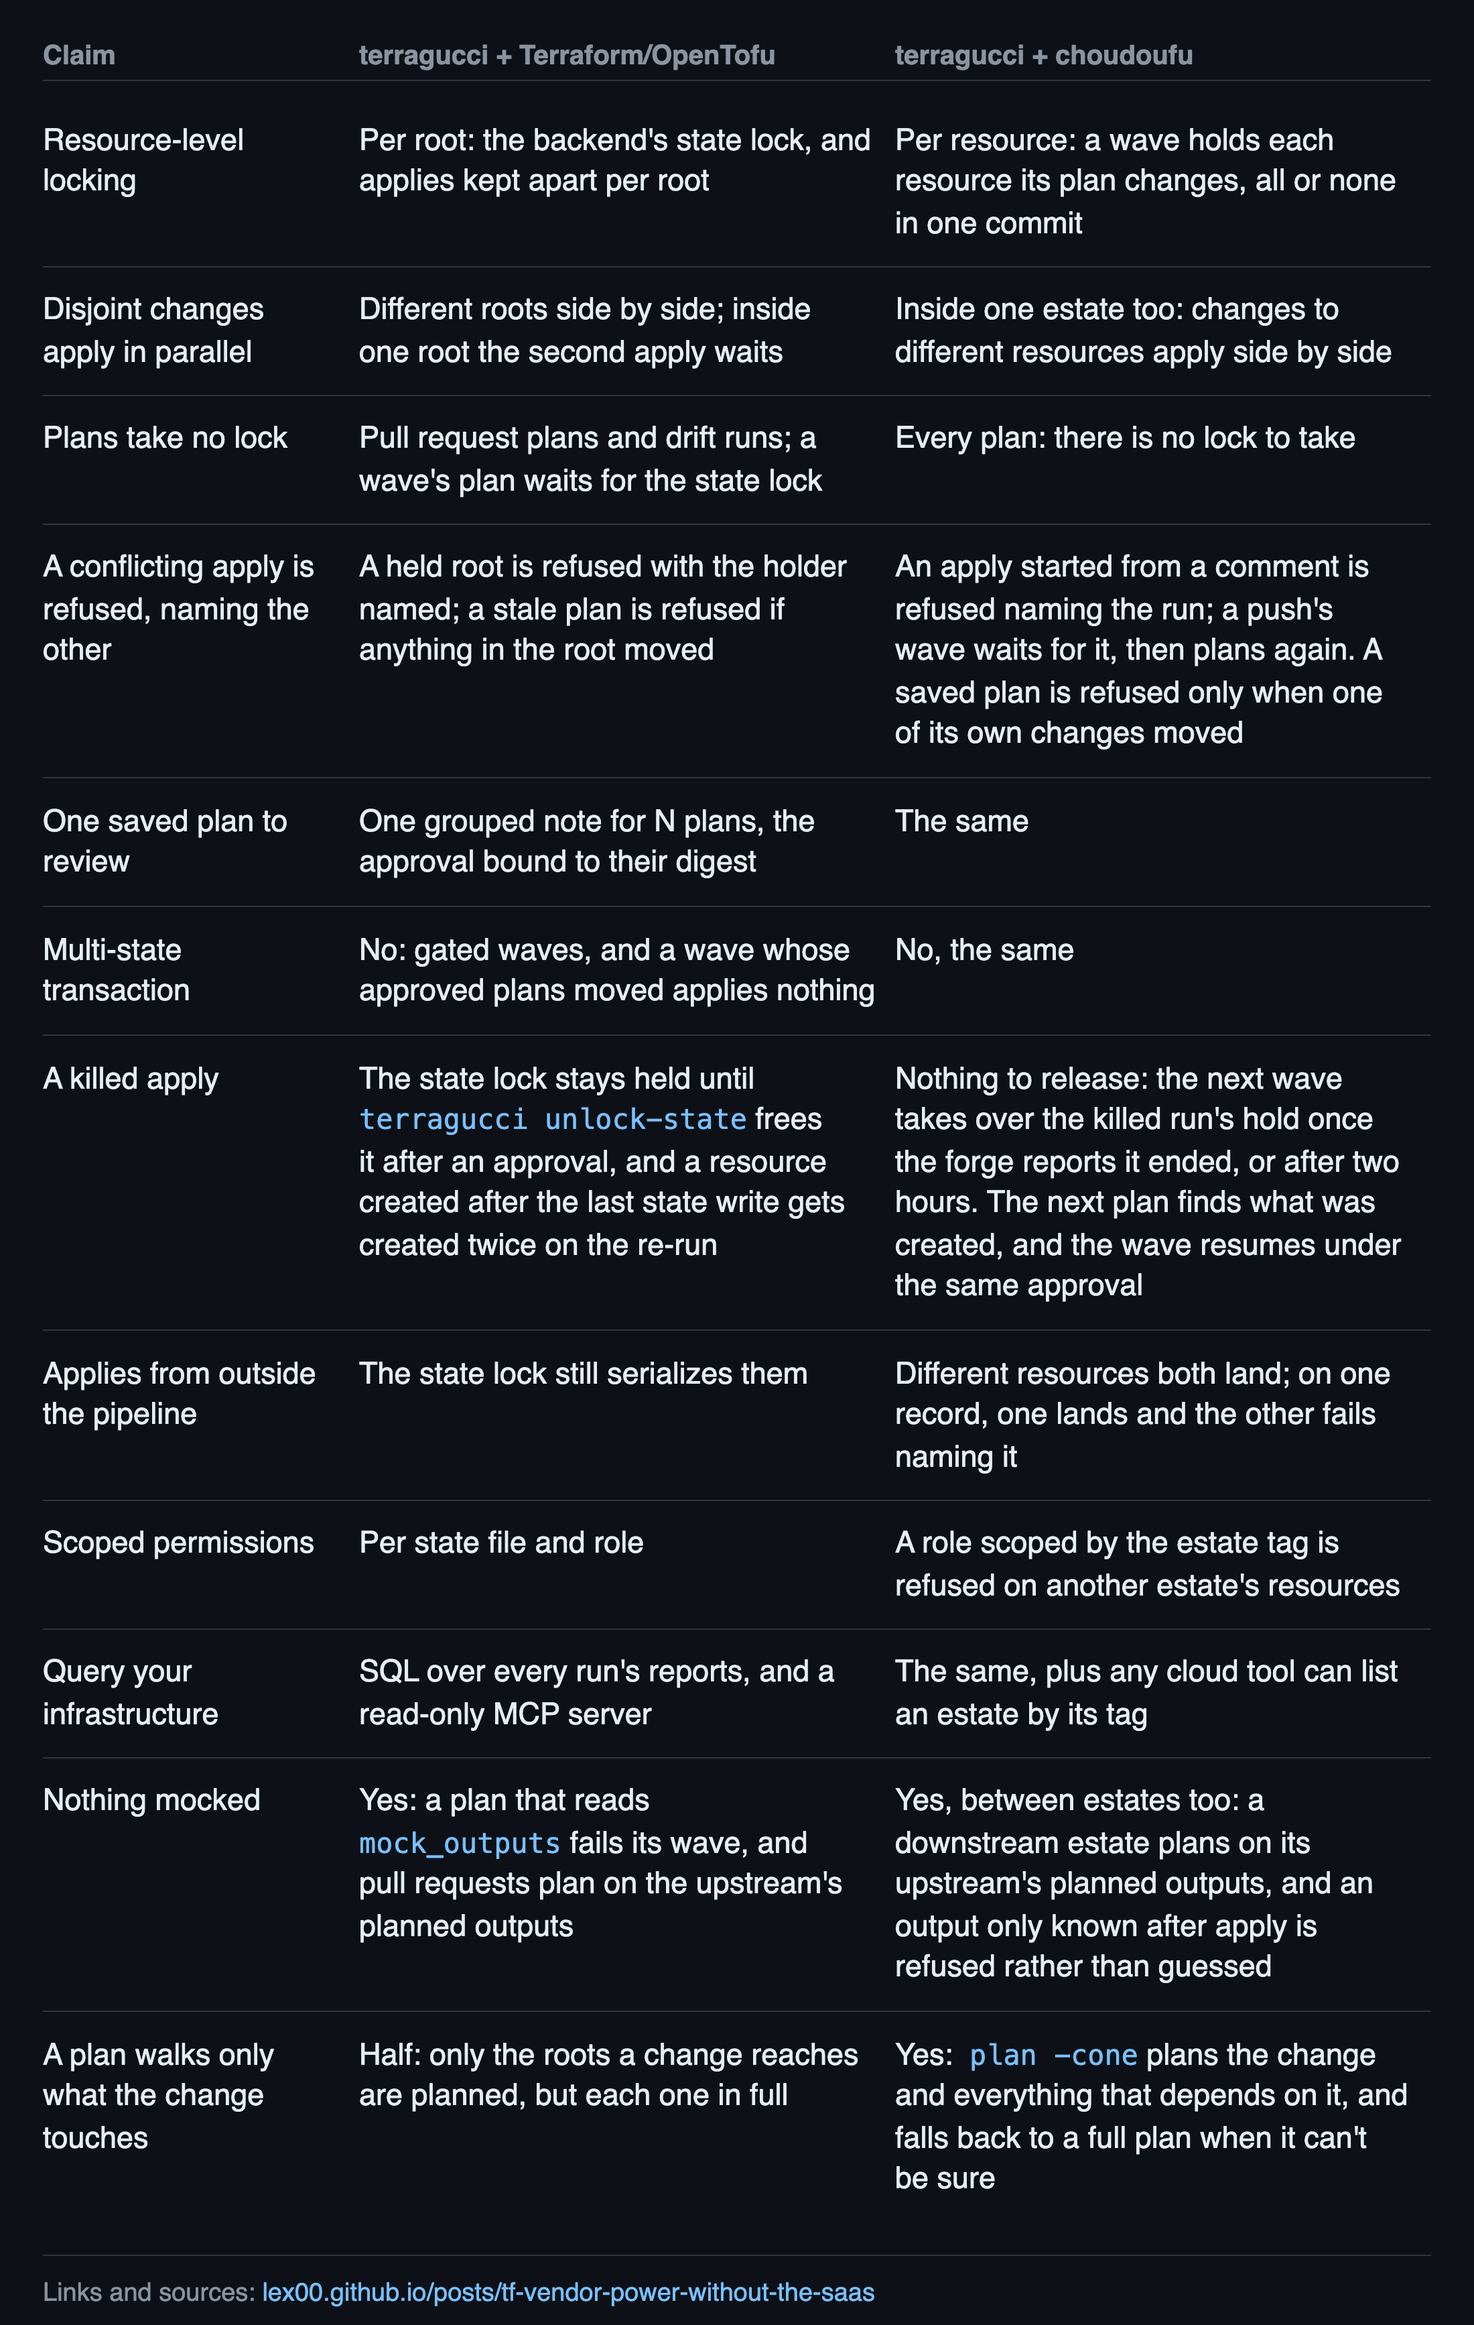
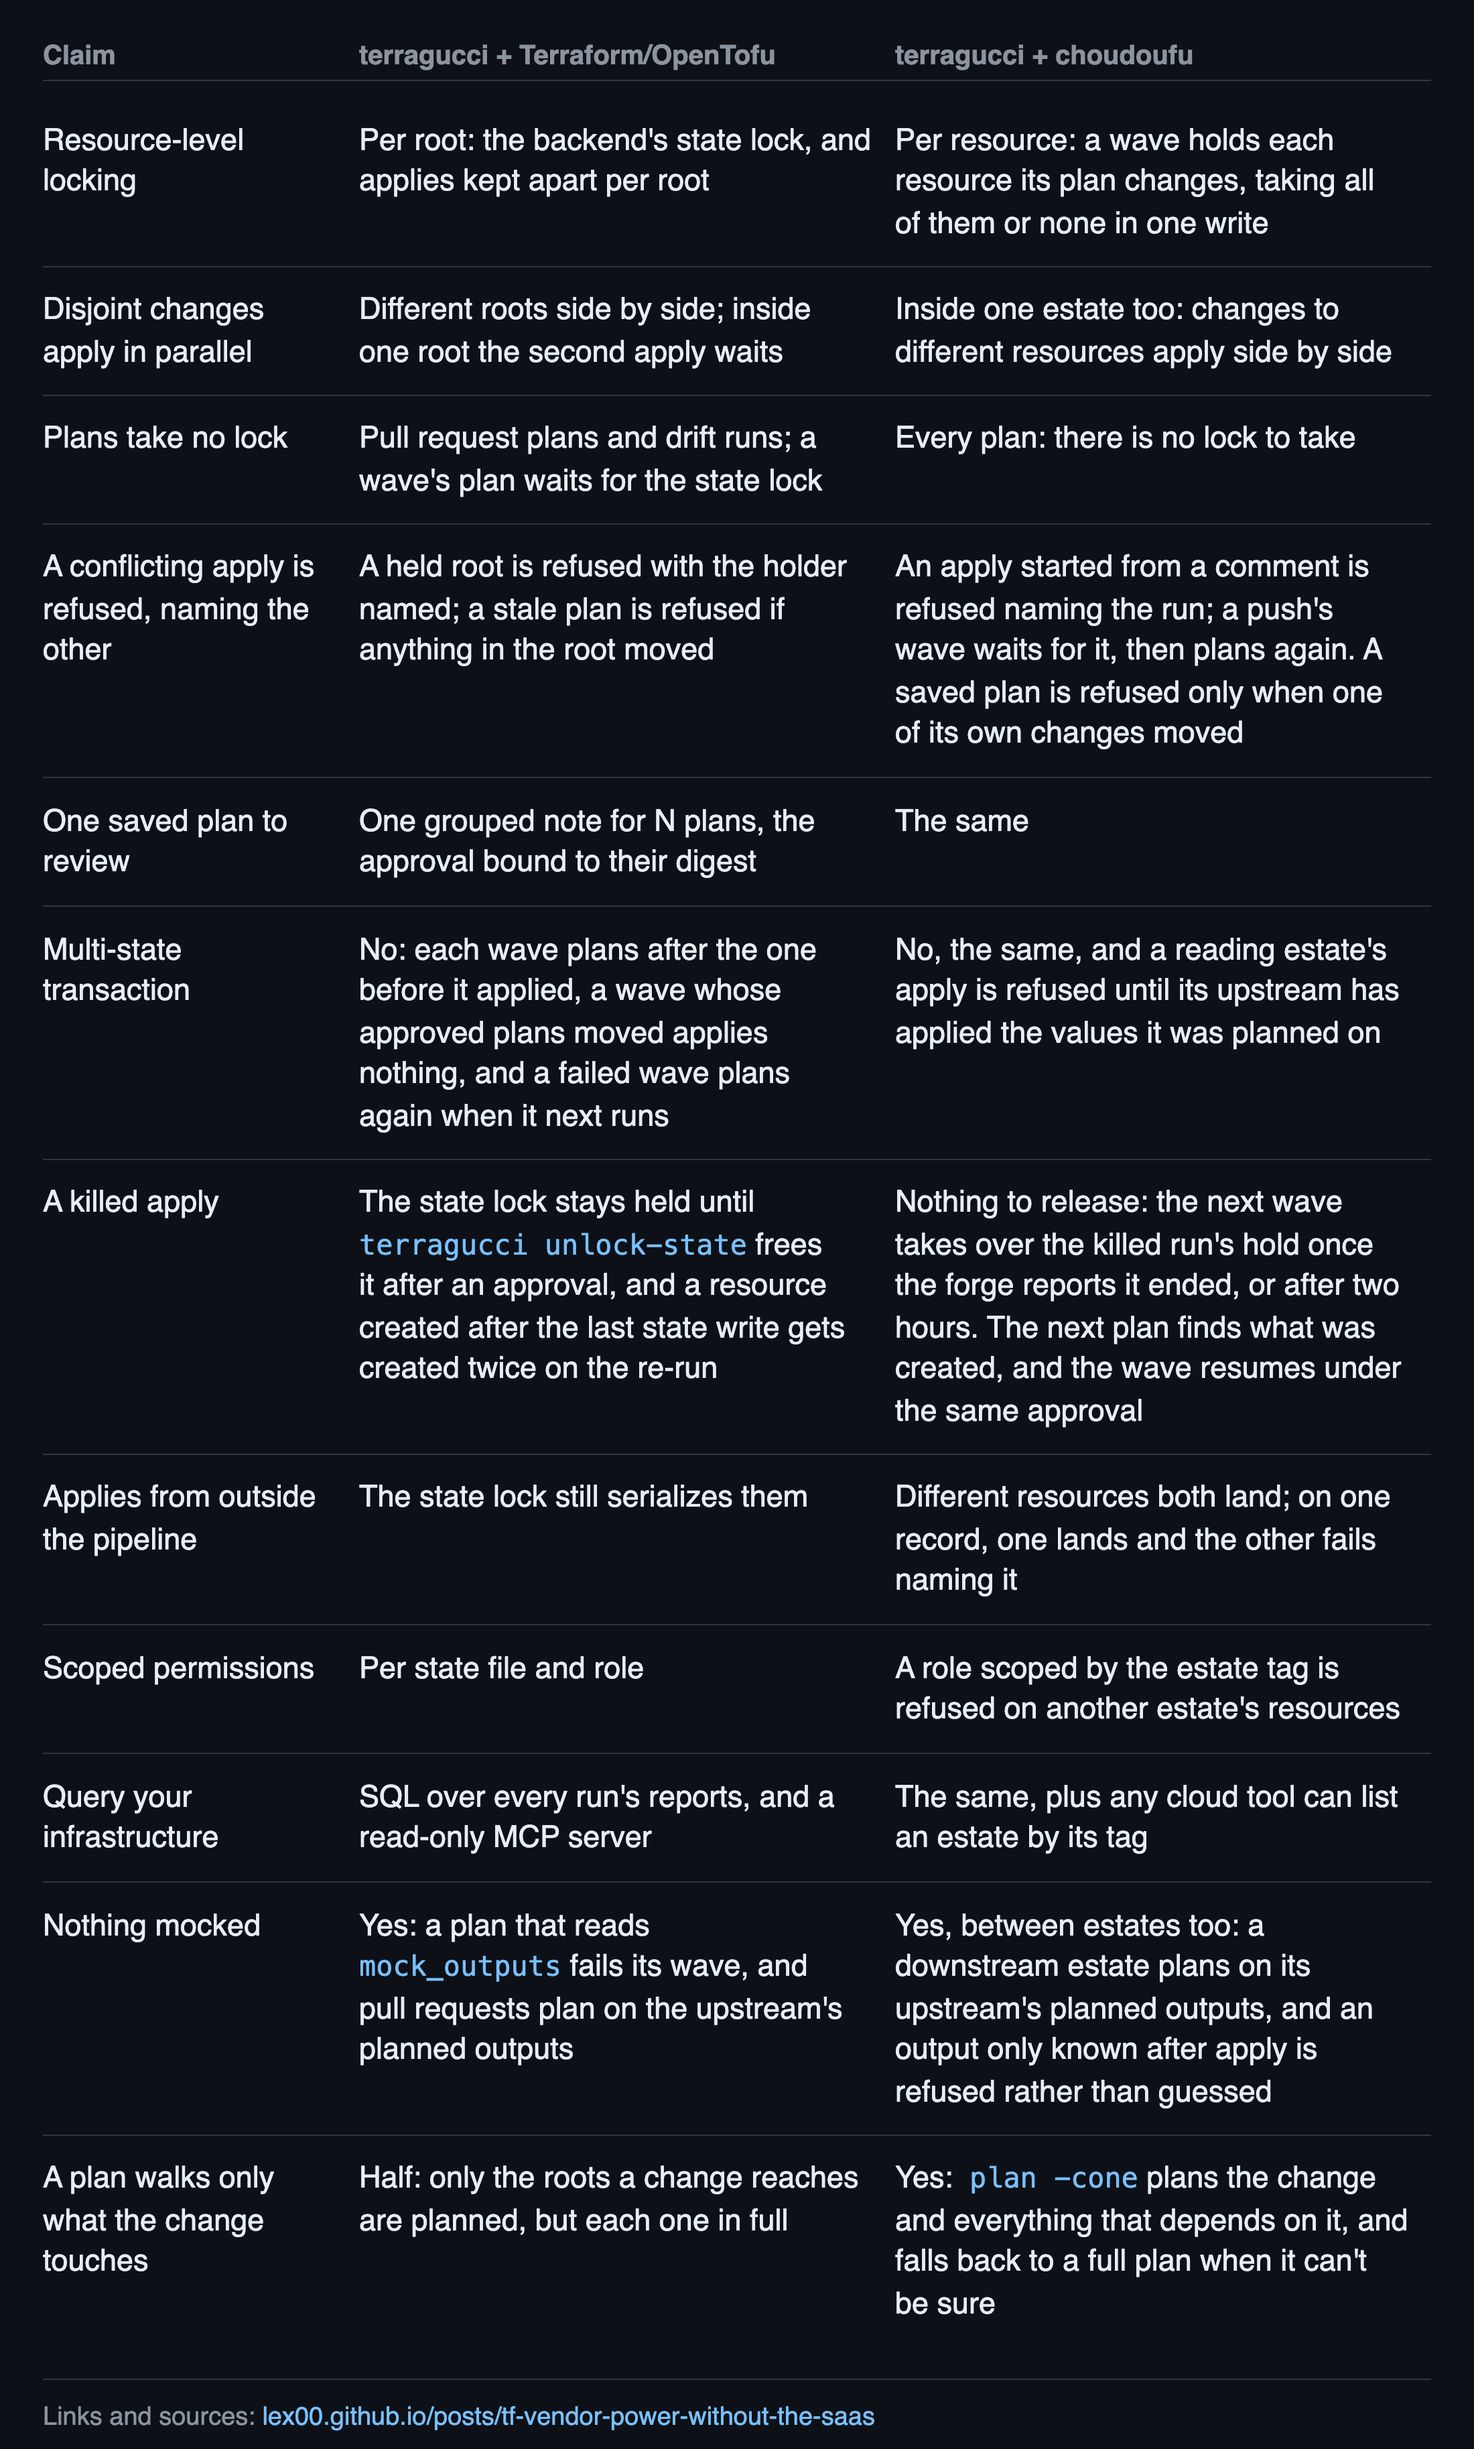
tf-vendor-power-without-the-saas: multi-state transaction says what happens instead, cross-estate cells cite the planned-outputs section

diff --git a/scripts/data/tf-vendor-power-tables.md b/scripts/data/tf-vendor-power-tables.md
@@ -25,7 +25,7 @@
 | Plans take no lock | Pull request plans and drift runs | Every plan |
 | A conflicting apply is refused, naming the other | Yes | Yes, only when its own changes moved |
 | One saved plan to review | Yes, one note for N plans | The same |
-| Multi-state transaction | No | No |
+| Multi-state transaction | No: ordered waves, each planned on what applied | The same, and a reader waits for its upstream's values |
 | A killed apply | Lock held until an approved release | Nothing to release; the wave resumes |
 | Applies from outside the pipeline | Serialized by the state lock | Both land; on one record the second fails |
 | Scoped permissions | Per state file and role | Per estate tag |
@@ -37,15 +37,15 @@
 
 | Claim | terragucci + Terraform/OpenTofu | terragucci + choudoufu |
 |---|---|---|
-| Resource-level locking | Per root: the backend's state lock, and [applies kept apart per root](https://intentius.io/terragucci/concepts/locking-and-staleness/#terragucci-layers) | Per resource: [a wave holds each resource its plan changes](https://intentius.io/terragucci/concepts/locking-and-staleness/#two-applies-of-one-estate), all or none in one commit |
+| Resource-level locking | Per root: the backend's state lock, and [applies kept apart per root](https://intentius.io/terragucci/concepts/locking-and-staleness/#terragucci-layers) | Per resource: [a wave holds each resource its plan changes](https://intentius.io/terragucci/concepts/locking-and-staleness/#two-applies-of-one-estate), taking all of them or none in one write |
 | Disjoint changes apply in parallel | [Different roots side by side](https://intentius.io/terragucci/reference/pipeline/#applies-side-by-side); inside one root the second apply waits | [Inside one estate too](https://intentius.io/terragucci/concepts/locking-and-staleness/#two-applies-of-one-estate): changes to different resources apply side by side |
 | Plans take no lock | [Pull request plans and drift runs](https://intentius.io/terragucci/concepts/locking-and-staleness/#lock-waits); a wave's plan waits for the state lock | [Every plan](https://intentius.io/choudoufu/docs/claims/no-self-managed-locks/): there is no lock to take |
 | A conflicting apply is refused, naming the other | [A held root is refused with the holder named](https://intentius.io/terragucci/concepts/locking-and-staleness/#pull-request-locks); [a stale plan is refused](https://intentius.io/terragucci/concepts/locking-and-staleness/#stale-plans) if anything in the root moved | An apply started from a comment is refused naming the run; a push's wave waits for it, then plans again. A saved plan is refused [only when one of its own changes moved](https://intentius.io/choudoufu/docs/claims/apply-what-was-approved/) |
 | One saved plan to review | [One grouped note for N plans](https://intentius.io/terragucci/concepts/why-plans-are-grouped/), [the approval bound to their digest](https://intentius.io/terragucci/concepts/waves-and-approvals/#approval-binding) | The same |
-| Multi-state transaction | No: gated waves, and [a wave whose approved plans moved applies nothing](https://intentius.io/terragucci/concepts/locking-and-staleness/#stale-plans) | No, the same |
+| Multi-state transaction | No: [each wave plans after the one before it applied](https://intentius.io/terragucci/concepts/how-it-works/), [a wave whose approved plans moved applies nothing](https://intentius.io/terragucci/concepts/locking-and-staleness/#stale-plans), and [a failed wave plans again when it next runs](https://intentius.io/terragucci/reference/pipeline/#stopped-applies) | No, the same, and [a reading estate's apply is refused](https://intentius.io/choudoufu/docs/use/cross-estate/#a-value-the-producer-has-not-applied-yet) until its upstream has applied the values it was planned on |
 | A killed apply | [The state lock stays held until `terragucci unlock-state` frees it after an approval](https://intentius.io/terragucci/guides/release-a-state-lock/), and [a resource created after the last state write gets created twice](https://intentius.io/choudoufu/docs/claims/recovery-is-a-rerun/) on the re-run | [Nothing to release](https://intentius.io/choudoufu/docs/claims/no-self-managed-locks/): the next wave takes over the killed run's hold once the forge reports it ended, or after two hours. The next plan finds what was created, and [the wave resumes under the same approval](https://intentius.io/terragucci/reference/pipeline/#stopped-applies) |
 | Applies from outside the pipeline | [The state lock still serializes them](https://intentius.io/terragucci/concepts/locking-and-staleness/#stock-and-choudoufu) | [Different resources both land; on one record, one lands and the other fails naming it](https://intentius.io/choudoufu/docs/model/concurrency/#the-record-store-is-not-locked-either) |
 | Scoped permissions | [Per state file and role](https://intentius.io/terragucci/guides/scope-state-access/) | [A role scoped by the estate tag](https://intentius.io/choudoufu/docs/use/governance/scope-a-role/) is refused on another estate's resources |
 | Query your infrastructure | [SQL over every run's reports](https://intentius.io/terragucci/guides/query-with-sql/), and [a read-only MCP server](https://intentius.io/terragucci/guides/agent-read-over-mcp/) | The same, plus [any cloud tool can list an estate by its tag](https://intentius.io/choudoufu/docs/claims/identity-is-a-tag/) |
-| Nothing mocked | Yes: [a plan that reads `mock_outputs` fails its wave](https://intentius.io/terragucci/guides/use-terragrunt/#later-layers), and [pull requests plan on the upstream's planned outputs](https://intentius.io/terragucci/concepts/waves-and-approvals/#linked-roots) | Yes, between estates too: a downstream estate plans on its upstream's planned outputs, and [an output only known after apply is refused](https://intentius.io/choudoufu/docs/use/cross-estate/) rather than guessed |
+| Nothing mocked | Yes: [a plan that reads `mock_outputs` fails its wave](https://intentius.io/terragucci/guides/use-terragrunt/#later-layers), and [pull requests plan on the upstream's planned outputs](https://intentius.io/terragucci/concepts/waves-and-approvals/#linked-roots) | Yes, between estates too: [a downstream estate plans on its upstream's planned outputs](https://intentius.io/choudoufu/docs/use/cross-estate/#a-value-the-producer-has-not-applied-yet), and an output only known after apply is refused rather than guessed |
 | A plan walks only what the change touches | Half: [only the roots a change reaches are planned](https://intentius.io/terragucci/concepts/how-it-works/), but each one in full | Yes: `plan -cone` plans the change and everything that depends on it, and falls back to a full plan when it can't be sure |

diff --git a/content/posts/tf-vendor-power-without-the-saas.md b/content/posts/tf-vendor-power-without-the-saas.md
@@ -81,10 +81,10 @@ State and locking, and the detail:
 - Plans take no lock: [Pull request plans and drift runs](https://intentius.io/terragucci/concepts/locking-and-staleness/#lock-waits), [Every plan](https://intentius.io/choudoufu/docs/claims/no-self-managed-locks/)
 - A conflicting apply is refused, naming the other: [A held root is refused with the holder named](https://intentius.io/terragucci/concepts/locking-and-staleness/#pull-request-locks), [a stale plan is refused](https://intentius.io/terragucci/concepts/locking-and-staleness/#stale-plans), [only when one of its own changes moved](https://intentius.io/choudoufu/docs/claims/apply-what-was-approved/)
 - One saved plan to review: [One grouped note for N plans](https://intentius.io/terragucci/concepts/why-plans-are-grouped/), [the approval bound to their digest](https://intentius.io/terragucci/concepts/waves-and-approvals/#approval-binding)
-- Multi-state transaction: [a wave whose approved plans moved applies nothing](https://intentius.io/terragucci/concepts/locking-and-staleness/#stale-plans)
+- Multi-state transaction: [each wave plans after the one before it applied](https://intentius.io/terragucci/concepts/how-it-works/), [a wave whose approved plans moved applies nothing](https://intentius.io/terragucci/concepts/locking-and-staleness/#stale-plans), [a failed wave plans again when it next runs](https://intentius.io/terragucci/reference/pipeline/#stopped-applies), [a reading estate's apply is refused](https://intentius.io/choudoufu/docs/use/cross-estate/#a-value-the-producer-has-not-applied-yet)
 - A killed apply: [The state lock stays held until `terragucci unlock-state` frees it after an approval](https://intentius.io/terragucci/guides/release-a-state-lock/), [a resource created after the last state write gets created twice](https://intentius.io/choudoufu/docs/claims/recovery-is-a-rerun/), [Nothing to release](https://intentius.io/choudoufu/docs/claims/no-self-managed-locks/), [the wave resumes under the same approval](https://intentius.io/terragucci/reference/pipeline/#stopped-applies)
 - Applies from outside the pipeline: [The state lock still serializes them](https://intentius.io/terragucci/concepts/locking-and-staleness/#stock-and-choudoufu), [Different resources both land; on one record, one lands and the other fails naming it](https://intentius.io/choudoufu/docs/model/concurrency/#the-record-store-is-not-locked-either)
 - Scoped permissions: [Per state file and role](https://intentius.io/terragucci/guides/scope-state-access/), [A role scoped by the estate tag](https://intentius.io/choudoufu/docs/use/governance/scope-a-role/)
 - Query your infrastructure: [SQL over every run's reports](https://intentius.io/terragucci/guides/query-with-sql/), [a read-only MCP server](https://intentius.io/terragucci/guides/agent-read-over-mcp/), [any cloud tool can list an estate by its tag](https://intentius.io/choudoufu/docs/claims/identity-is-a-tag/)
-- Nothing mocked: [a plan that reads `mock_outputs` fails its wave](https://intentius.io/terragucci/guides/use-terragrunt/#later-layers), [pull requests plan on the upstream's planned outputs](https://intentius.io/terragucci/concepts/waves-and-approvals/#linked-roots), [an output only known after apply is refused](https://intentius.io/choudoufu/docs/use/cross-estate/)
+- Nothing mocked: [a plan that reads `mock_outputs` fails its wave](https://intentius.io/terragucci/guides/use-terragrunt/#later-layers), [pull requests plan on the upstream's planned outputs](https://intentius.io/terragucci/concepts/waves-and-approvals/#linked-roots), [a downstream estate plans on its upstream's planned outputs](https://intentius.io/choudoufu/docs/use/cross-estate/#a-value-the-producer-has-not-applied-yet)
 - A plan walks only what the change touches: [only the roots a change reaches are planned](https://intentius.io/terragucci/concepts/how-it-works/)
